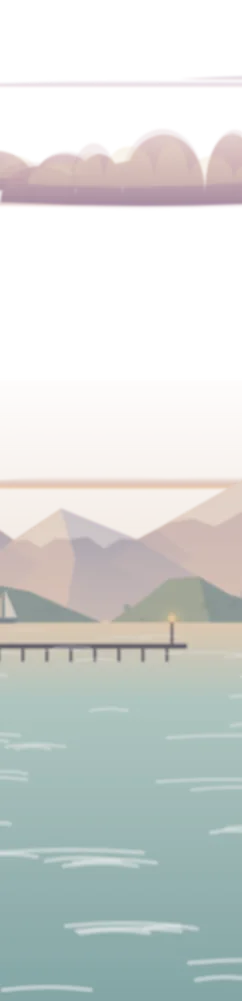
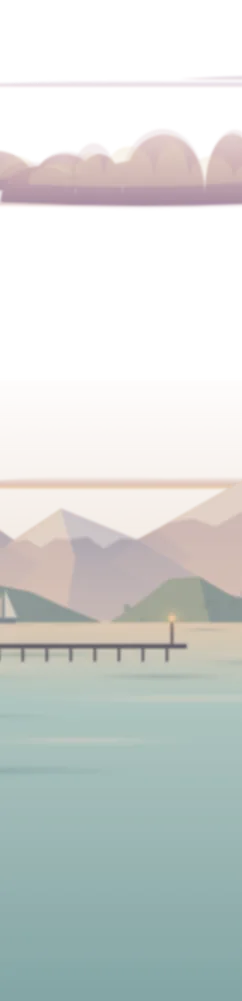
Dusk sea sheen, sun path and night town lights
Claude-Session: https://claude.ai/code/session_01EHtmNVvLo6L45VFzzqfGpi

diff --git a/assets/js/nature.js b/assets/js/nature.js
@@ -1608,6 +1608,18 @@ function headland(tipX, base, len, hgt, dir, g, sunX, c) {
   const cliffW = len * .07;
   // 岩は低く、裾は木々に隠れるように（尖った三角に見えないように）
   s += `<path d="M${P([xAt(0), base + .3])}L${P([xAt(0), base - hgt * .06])}L${P([xAt(.02), base - hgt * .13])}L${P([xAt(.05), base - hgt * .12])}L${P([xAt(0) + dir * cliffW * 1.3, base + .3])}Z" fill="${sunOnTip ? c.rockLit : c.rock}" opacity=".85"/>`;
+  // 斜面の小さな家（岬の先寄りの低いところに寄り添って）。夜は窓に灯りがともる（灯りは museum.js）
+  if (c.houses && hgt > 4) {
+    const n = Math.round(2 + hgt * .45 + g() * 2), cols = ['#eadfd2', '#dccbc2', '#e4d6c3', '#cdbdb8'], roofs = ['#b8715f', '#8d8196', '#6f8886', '#a8826a'];
+    const hs = [];
+    for (let i = 0; i < n; i++) { const u = .05 + g() * .38, xx = xAt(u), ty = topAt(xx), yy = ty + (base - ty) * (.45 + g() * .4); hs.push([xx, yy]); }
+    hs.sort((a, b) => a[1] - b[1]).forEach(([xx, yy]) => {
+      const w = .9 + g() * .7, h = .6 + g() * .35, rh = .35 + g() * .2, col = cols[Math.floor(g() * 4)], rf = roofs[Math.floor(g() * 4)];
+      s += `<path d="M${n1(xx - w / 2)} ${n1(yy)}V${n1(yy - h)}H${n1(xx + w / 2)}V${n1(yy)}Z" fill="${col}"/><path d="M${n1(xx + w * .12)} ${n1(yy)}V${n1(yy - h)}H${n1(xx + w / 2)}V${n1(yy)}Z" fill="${mixC(col, '#8f8aa3', .28)}"/>`;
+      s += `<path d="M${n1(xx - w / 2 - .12)} ${n1(yy - h)}L${n1(xx - w * .1)} ${n1(yy - h - rh)}H${n1(xx + w * .2)}L${n1(xx + w / 2 + .12)} ${n1(yy - h)}Z" fill="${rf}"/>`;
+      c.houses.push([n2(xx - w * .18), n2(yy - h * .5)]);
+    });
+  }
   // 尾根のヤシ（頂の手前、先の側に寄せて）
   for (let i = 0, np = hgt > 6 ? 4 : hgt > 4 ? 2 : 0; i < np; i++) { const u = .12 + i * .07 + g() * .04, xx = xAt(u); s += farPalm(xx, topAt(xx) + .4, hgt * (.24 + g() * .12), dir * -(.2 + g() * .5), c.palm, g); }
   return s;
@@ -1673,6 +1685,26 @@ function glitter(x, y0, y1, c, { spread = .45, n = 90, a = .8 } = {}) {
     const t = Math.pow(rnd(), .8), y = y0 + (y1 - y0) * t, w = 1.5 + (y - y0) * spread, xx = x + R(-w, w) * (1 - Math.abs(R(-1, 1)) * .3), l = R(.6, 2.8) * (1 + t * 2);
     s += `<path class="shimmer" style="animation-delay:${n1(-R(0, 4))}s" d="M${n1(xx - l / 2)} ${n1(y)}h${n1(l)}" stroke="${c}" stroke-width="${n1(.18 + t * .35)}" stroke-linecap="round" opacity="${n1(a * (1 - t * .55) * 100) / 100}"/>`;
   }
+  return s;
+}
+// 夕凪の海の面：白い筋は使わず、空を映す明るいゆらぎと、うねりの少し暗い帯を、ぼかした細長い楕円で重ねる（奥ほど細く短く）
+function seaSheen(x0, x1, hz, y1, g) {
+  const L = `ss${gid++}`, Dk = `sd${gid++}`;
+  let s = `<defs><radialGradient id="${L}"><stop offset="0" stop-color="#fbe4cf" stop-opacity=".5"/><stop offset=".6" stop-color="#fbe4cf" stop-opacity=".16"/><stop offset="1" stop-color="#fbe4cf" stop-opacity="0"/></radialGradient><radialGradient id="${Dk}"><stop offset="0" stop-color="#5f8f93" stop-opacity=".32"/><stop offset=".6" stop-color="#5f8f93" stop-opacity=".1"/><stop offset="1" stop-color="#5f8f93" stop-opacity="0"/></radialGradient></defs>`;
+  for (let t = .03; t < 1; t += .045 + t * .06) {
+    const y = hz + .5 + (y1 - hz) * t * t, w = 2.5 + t * 26, h = .1 + t * .9;
+    for (let x = x0 + g() * w; x < x1; x += w * (1.2 + g() * 1.6)) {
+      const dk = g() < .45;
+      s += `<ellipse cx="${n1(x)}" cy="${n1(y + (g() - .5) * h)}" rx="${n1(w * (.5 + g() * .6))}" ry="${n2(h * (.6 + g() * .5))}" fill="url(#${dk ? Dk : L})"/>`;
+    }
+  }
+  return s;
+}
+// 夕日が海に落とす光の道（動かない下地）：水平線から手前へ、横長のやわらかな光の帯が広がる。揺らぎは museum.js が重ねる
+function sunColumn(x, hz, y1) {
+  const id = `sc${gid++}`;
+  let s = `<defs><radialGradient id="${id}"><stop offset="0" stop-color="#fff0cf" stop-opacity=".7"/><stop offset=".5" stop-color="#ffe2b4" stop-opacity=".25"/><stop offset="1" stop-color="#ffd9a6" stop-opacity="0"/></radialGradient></defs>`;
+  for (let i = 0; i < 16; i++) { const t = i / 15, y = hz + .4 + (y1 - hz) * t * t, w = 1.4 + t * 9; s += `<ellipse cx="${n1(x + Math.sin(i * 2.3) * t * 1.2)}" cy="${n1(y)}" rx="${n1(w)}" ry="${n2(.22 + t * .7)}" fill="url(#${id})" opacity="${n2(1 - t * .45)}"/>`; }
   return s;
 }
 // 遠い波：奥ほど細かく、手前ほど長い白い筋
@@ -1746,11 +1778,14 @@ export function sceneCove(W, stops) {
   far += haze(-10, fw + 10, hz - 8, hz + .3, '#f6dcc6', 0, .35);
   const [sg, sd] = lgrad([[0, '#f4d9bd'], [.18, '#bfd9d3'], [1, '#86b3b3']]);
   far += `<defs>${sd}</defs><rect x="-5" y="${hz}" width="${n1(fw + 10)}" height="${n1(106 - hz)}" fill="url(#${sg})"/>`;
-  far += glitter(sx, hz + .5, 100, '#fff6d8', { spread: .35, n: 170, a: 1 });
+  // 海の面と夕日の光の道（前の粒と白い筋は、乱数の呼び出しだけ残して描かない）
+  glitter(sx, hz + .5, 100, '#fff6d8', { spread: .35, n: 170, a: 1 });
+  { const gS = hrng(fw + 7.7); far += seaSheen(-5, fw + 5, hz, 84, gS) + sunColumn(sx, hz, 80); }
   // 水平線の帆船と、遠くの桟橋（先に灯りがともる）
   // 手前の緑の岬：作品と作品のあいだ（立ち止まると画面の真ん中）に岬の先が来るように。どれも先を夕日の側（左）へ向け、
   // 次の岬に重ならない長さに。最初の岬の先に防波堤と小さな灯台
   let harbor = null, lightSvg = '';
+  const houses = [];
   // 岬の後ろに、霞んだ緑の丘の連なり（海岸線が続いて見えるように。ところどころ切れて海と島が見える）
   for (let x = -8 + gM() * 6; x < fw + 10; x += (12 + gM() * 20) * big) { if (gM() < .22) continue; far += hazeIsland(x, hz + .15, (16 + gM() * 22) * big, (3.2 + gM() * 3.4) * big, gM, sx, { lit: '#b3b9a6', shade: '#9aaba5', tree: '#93a49b' }); }
   // 立ち止まる場所ごとに岬を 1 つ。大きさはまちまちで、右の岬ほど手前に重なる（左の岬の奥の裾を隠す）
@@ -1758,14 +1793,14 @@ export function sceneCove(W, stops) {
     const dir = 1, tip = at(W, FACTORS.far)(s, W * .5), bwl = W < 80 ? 4 : 7, isHarbor = s === 1.5, size = isHarbor ? 1 : [.55, .8, .45, .95, .6][k % 5] * (.85 + gM() * .3);
     const len = Math.min(W < 80 ? 26 : 56, W * FACTORS.far * 2.1) * (.6 + size * .4), hgt = (W < 80 ? 6.5 : 10) * size;
     const tipX = isHarbor ? tip + dir * bwl : tip + dir * (gM() * 4 - 1) * big;
-    far += headland(tipX, hz + .1, len, hgt, dir, gM, sx, { body: '#86a092', lit: '#a9b095', low: '#6f8d88', shade: '#5f7c7d', rock: '#7f8a86', rockLit: '#a9a497', refl: '#5f8583', trees: ['#6f8c84', '#8aa18f', '#a7b096'], palm: '#5a7169' });
+    far += headland(tipX, hz + .1, len, hgt, dir, gM, sx, { body: '#86a092', lit: '#a9b095', low: '#6f8d88', shade: '#5f7c7d', rock: '#7f8a86', rockLit: '#a9a497', refl: '#5f8583', trees: ['#6f8c84', '#8aa18f', '#a7b096'], palm: '#5a7169', houses });
     if (isHarbor) { const bw = breakwater(tipX, tip, hz + .1, gM, { top: '#c9b8b0', face: '#948a96', gap: '#7d7482', tower: '#efe4da', towerShade: '#d2c7cf', red: '#bd6a5c', lamp: '#6b6170' }); lightSvg = bw.svg; harbor = bw.light; }
   }
   // 灯台は最後に描く（後ろの岬に隠れないように）
   far += lightSvg;
   for (let k = 0; k < 3; k++) far += sailboat(R(fw * .1, fw * .9), hz - .2, R(2, 3.2), pick(['#8a97a8', '#7a7488']));
   far += pierFar(fw * .78, hz + 3.5, Math.min(26, fw * .18), '#6f6a7a');
-  far += waveLines(-5, fw + 5, hz + 1, 100, '#ffffff', Math.round(fw * 1.4));
+  waveLines(-5, fw + 5, hz + 1, 100, '#ffffff', Math.round(fw * 1.4));
   // 中景：浅瀬の珊瑚、波打ちぎわ、濡れた砂と乾いた砂、岩と流木
   // 珊瑚は作品（Sunset Session）の色で、波打ちぎわに群れで。根もとは水に沈める
   for (let x = R(0, 20); x < mw; x += R(38, 64)) {
@@ -1835,7 +1870,7 @@ export function sceneCove(W, stops) {
   move += tileGround(W, stops, ground);
   return {
     sky: 'linear-gradient(#aebbd6 0%, #e3b8b3 28%, #f3c69c 46%, #f8dcb0 58%, #f6e2c4 62%, #bfd9d3 66%, #86b3b3 100%)',
-    far: [fw, far], mid: [mw, mid], move: [vw, move], frame, fx: 'cove', glowDefault: [255, 214, 170], foam: 79, harbor, plane: true,
+    far: [fw, far], mid: [mw, mid], move: [vw, move], frame, fx: 'cove', glowDefault: [255, 214, 170], foam: 79, harbor, plane: true, houses, sunpath: [sx, hz],
     curtain: ['#1c3a3a', '#2a5550', '#3f7f73', '#5aa77a', '#7cc0a0'],
   };
 }

diff --git a/assets/css/museum.css b/assets/css/museum.css
@@ -946,6 +946,16 @@ body.choosing .loader-choose { opacity: 1; transform: none; pointer-events: auto
 .harborlight b { position: absolute; inset: 0; border-radius: 50%; background: radial-gradient(circle, rgba(255, 232, 190, .95) 0 5%, rgba(255, 200, 140, .45) 12%, rgba(255, 190, 130, .12) 32%, transparent 60%); animation: harbor 4.8s ease-in-out infinite; will-change: opacity; }
 .harborlight s { position: absolute; left: 44%; width: 12%; height: 42%; background: linear-gradient(rgba(255, 214, 160, .5), transparent); border-radius: 50%; animation: harbor 4.8s ease-in-out infinite; will-change: opacity; }
 @keyframes harbor { 0%, 55%, 100% { opacity: .12; } 68%, 82% { opacity: 1; } }
+/* 夕凪の浜：夕日の光の道。横長のぼかした光の帯が、左右にゆらいで明滅する */
+.sunpath { pointer-events: none; }
+.sunpath i { position: absolute; border-radius: 50%; background: radial-gradient(closest-side, rgba(255, 242, 214, .9), rgba(255, 226, 180, .4) 55%, rgba(255, 214, 160, 0)); opacity: .5; animation: sunbar 3s ease-in-out infinite alternate; will-change: transform, opacity; }
+@keyframes sunbar { 0% { transform: translateX(-6%) scaleX(.82); opacity: .28; } 100% { transform: translateX(6%) scaleX(1.12); opacity: .85; } }
+/* 夕凪の浜（夜）：岬の家の窓の灯り。夜の部屋でだけ */
+.townlight { display: none; width: 1.6vh; height: 1.6vh; border-radius: 50%; background: radial-gradient(closest-side, var(--c) 0 16%, rgba(255, 190, 120, .35) 40%, rgba(255, 180, 110, 0)); }
+.room.moonlit .townlight { display: block; }
+.townlight.blink { animation: townblink 37s steps(1) infinite; }
+@keyframes townblink { 0%, 100% { opacity: 1; } 41% { opacity: .08; } 63% { opacity: 1; } 82% { opacity: .08; } 90% { opacity: 1; } }
+.room.moonlit .harborlight b { background: radial-gradient(circle, rgba(255, 236, 196, 1) 0 6%, rgba(255, 200, 140, .55) 14%, rgba(255, 190, 130, .18) 36%, transparent 62%); }
 /* 夕凪の浜：遠くを横切る飛行機と飛行機雲。1 回およそ 46 秒で横切って、しばらく間をおく */
 .airplane { position: absolute; left: 0; top: 11vh; width: 4.6vh; will-change: transform; animation: airplane 80s linear infinite; animation-delay: -72s; }
 .airplane svg { display: block; width: 100%; height: auto; position: relative; }
@@ -974,7 +984,7 @@ body.choosing .loader-choose { opacity: 1; transform: none; pointer-events: auto
 .flyer.koijump { width: 5vh; opacity: .6; animation-timing-function: ease-in-out; }
 .flyer.koijump svg { animation: koiarc 1.6s ease-in-out forwards; }
 @keyframes koiarc { 0% { transform: rotate(60deg) translateY(2vh); } 50% { transform: rotate(90deg) translateY(-8vh); } 100% { transform: rotate(120deg) translateY(2vh); } }
-@media (prefers-reduced-motion: reduce) { .harborlight b, .harborlight s, .lighthouse, .ferris-wheel, .ferris-wheel .gondola, .ferris-refl i, .swash, .wetshine, .steam i, .flyer.koijump svg { animation: none !important; } }
+@media (prefers-reduced-motion: reduce) { .sunpath i, .townlight.blink, .harborlight b, .harborlight s, .lighthouse, .ferris-wheel, .ferris-wheel .gondola, .ferris-refl i, .swash, .wetshine, .steam i, .flyer.koijump svg { animation: none !important; } }
 
 /* 長押し：作品だけが照らされる */
 .room.spot .hush { display: block; opacity: 1 !important; transition: opacity .5s; }
@@ -1076,3 +1086,4 @@ body.forest-night .farewell .fw-glow { opacity: 1; }
 .wclock .hh { width: 7%; height: 23%; margin-left: -3.5%; }
 .wclock .mh { width: 4.5%; height: 36%; margin-left: -2.25%; }
 .wclock .cap { width: 12%; height: 12%; margin: 0 0 -6% -6%; border-radius: 50%; background: #b8925e; transform: none; }
+.room.moonlit .sunpath i { background: radial-gradient(closest-side, rgba(214, 222, 246, .7), rgba(180, 194, 236, .28) 55%, rgba(170, 185, 230, 0)); }

diff --git a/assets/js/museum.js b/assets/js/museum.js
@@ -690,6 +690,14 @@ function buildLiving(r) {
   if (D.lighthouse) { const { x, y } = D.lighthouse; S.insertAdjacentHTML('beforeend', `<div class="living lighthouse" style="left:${((x - 40) * U).toFixed(1)}px;top:${((y - 40) * U).toFixed(1)}px;width:80vh">${beamSVG()}</div>`); }
   // 夕凪の浜：防波堤の先の小さな灯台が、ゆっくり明滅する（光の輪と、水面に落ちる細い光）
   if (D.harbor) { const [x, y] = D.harbor; S.insertAdjacentHTML('beforeend', `<i class="living harborlight" style="left:${((x - 3) * U).toFixed(1)}px;top:${((y - 3) * U).toFixed(1)}px"><b></b><s style="top:${((63 - y + 3) / 6 * 100).toFixed(0)}%"></s></i>`); }
+  // 夕凪の浜：夕日の光の道。横長のやわらかな光の帯が、波に合わせて左右にゆらいで明滅する（色は部屋の色合いに合わせる。夜は月の光の色に）
+  if (D.sunpath) {
+    const [x, hz] = D.sunpath, n = COARSE ? 9 : 14;
+    const bars = Array.from({ length: n }, (_, i) => { const t = i / (n - 1), w = 12 + t * 80; return `<i style="top:${(t * t * 100).toFixed(1)}%;left:${(50 - w / 2 + Math.sin(i * 2.1) * t * 6).toFixed(1)}%;width:${w.toFixed(1)}%;height:${(.25 + t * .7).toFixed(2)}vh;animation-duration:${(2.6 + (i * 1.7) % 2.4).toFixed(1)}s;animation-delay:${(-(i * .83) % 3).toFixed(2)}s"></i>`; }).join('');
+    S.insertAdjacentHTML('beforeend', gradeColors(`<div class="living sunpath" style="left:${((x - 9) * U).toFixed(1)}px;top:${((hz + .4) * U).toFixed(1)}px;width:18vh;height:17vh">${bars}</div>`, gradeOf(r.room.scene)));
+  }
+  // 夕凪の浜（夜）：岬の家の窓に灯り。いくつかはときどき消えたり点いたりする（夜の部屋でだけ見える）
+  if (D.houses && D.houses.length) S.insertAdjacentHTML('beforeend', D.houses.map(([x, y], i) => `<i class="living townlight${i % 3 === 0 ? ' blink' : ''}" style="left:${((x - .8) * U).toFixed(1)}px;top:${((y - .8) * U).toFixed(1)}px;animation-delay:${(-(i * 7.3) % 37).toFixed(1)}s;--c:${['#ffcf85', '#ffe0a6', '#ffbd78'][i % 3]}"></i>`).join(''));
   // 夕凪の浜：遠くの空を、飛行機が飛行機雲を引いてゆっくり横切る（空は動かない層なので、いつ見ても画面の中を通る）
   if (D.plane && !REDUCED) { const sky = $('.sky', r.el); sky.querySelector('.airplane')?.remove(); sky.insertAdjacentHTML('beforeend', `<div class="airplane" aria-hidden="true"><i class="trail"></i><i class="trail t2"></i>${gradeColors(planeSVG(), gradeOf(r.room.scene))}</div>`); }
   if (D.foam) {
